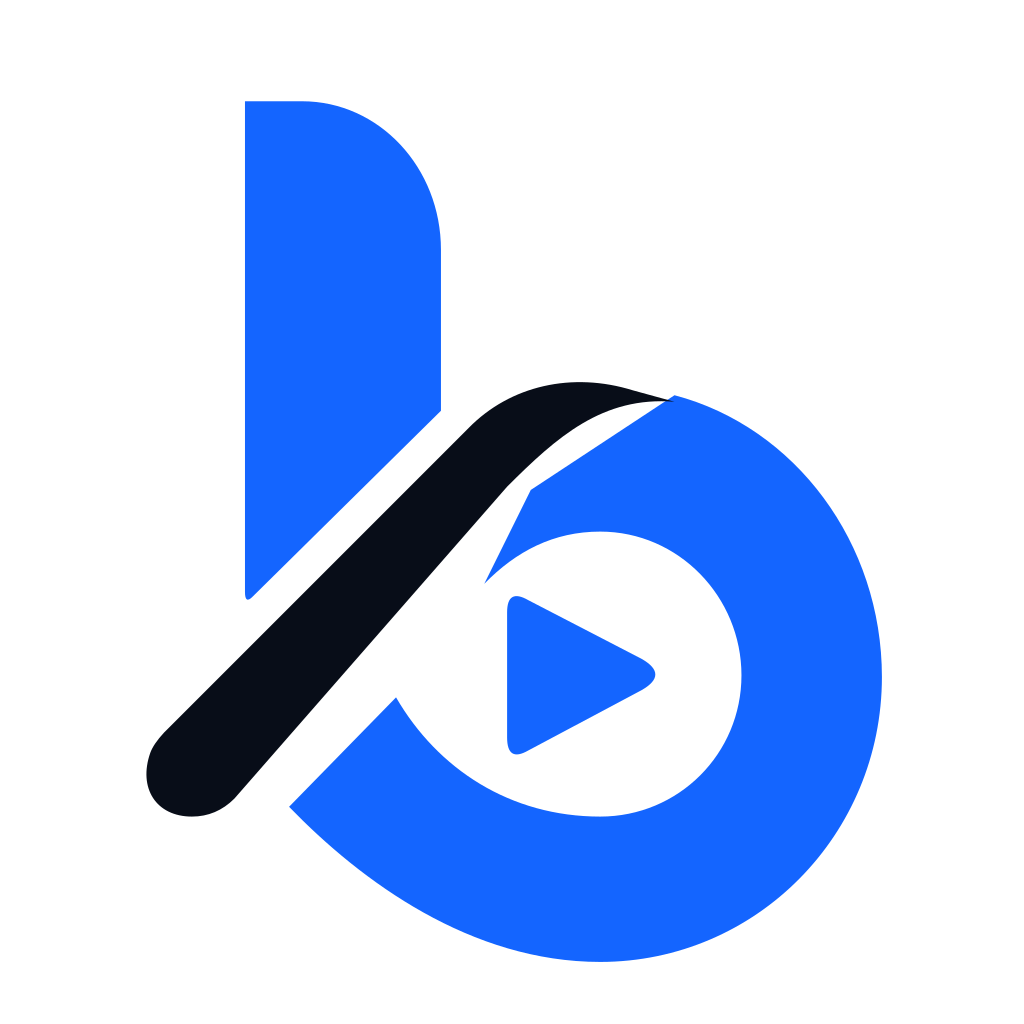
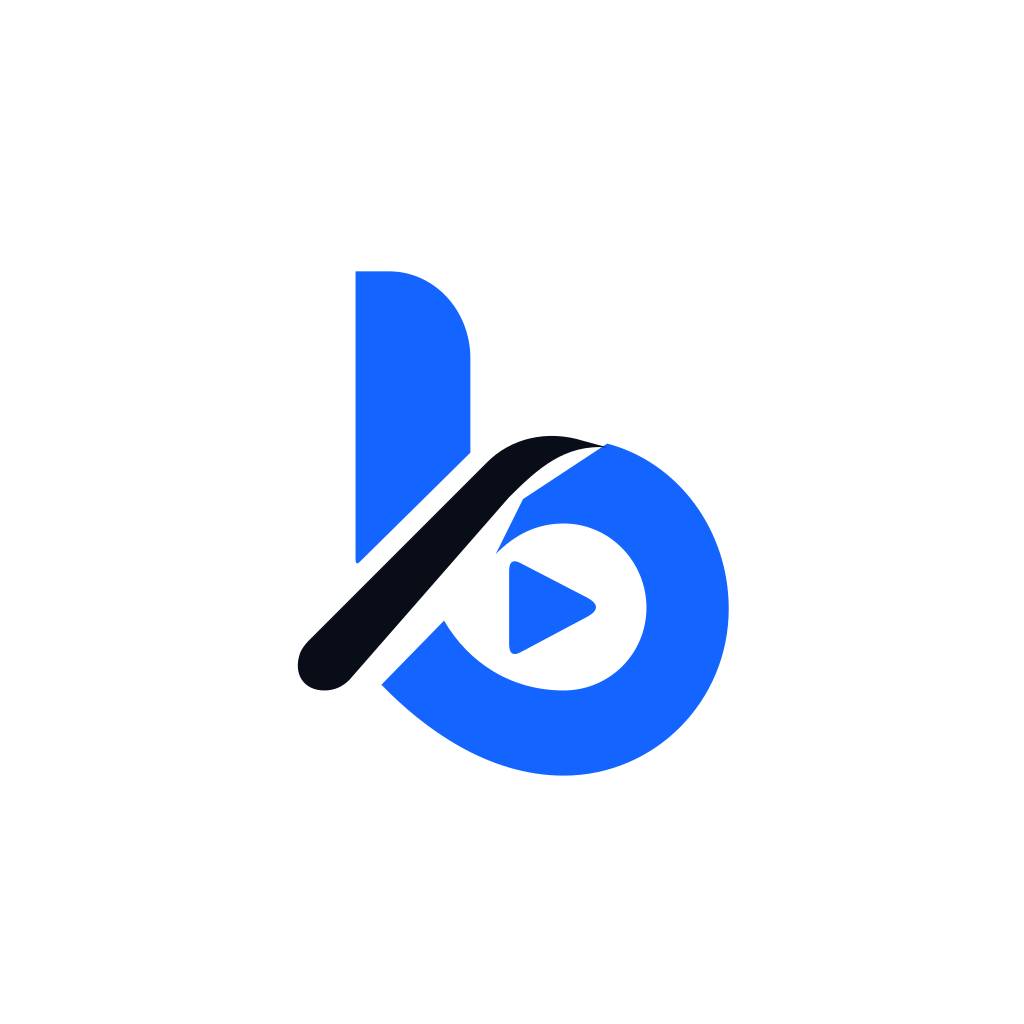
fix: keep approved adaptive mark inside Android launcher safe zone

Changed region(s): [[0.125, 0.0938, 0.875, 0.9375]]

diff --git a/docs/releases/v0.2.20-preview.25.md b/docs/releases/v0.2.20-preview.25.md
@@ -1,0 +1,32 @@
+# BailaCue 0.2.20 · Android preview build25
+
+Implements the approved round-2 requirements. Install over the previous preview to
+keep your device library.
+
+- YouTube playlist discovery explicitly cues the official playlist without starting
+  playback. An invalid Data API key can fall back to the player's visible list.
+- Add selected videos is beside playlist setup. Success appears after the Library
+  write completes, with Open Library, preserved selections on failure, and retry.
+  Partial player-list refreshes retain existing memberships and personal edits.
+- Long YouTube titles use a compact two-line heading with Show full title.
+- YouTube has a resize grip and accessible adjustment, plus a visible Full screen
+  action and Android Back handling. The same player stays mounted, preserving
+  video position, play/pause and supported speed across those layout changes.
+- The approved concept05 lowercase b/play icon replaces BC. Transparent light/dark
+  in-app marks, adaptive foreground, monochrome, splash, logos and platform exports
+  regenerate from a clean SVG master. Platform-required launcher backgrounds remain separate.
+
+Full playlist pagination needs a YouTube Data API v3 key. Without one the official
+player's visible list may be limited; the app discloses this and offers setup/retry.
+YouTube stays online and has no download, upload, native trim or rename actions.
+Existing Drive/Dropbox destinations, original-file safeguards and optional numbering remain.
+
+190 unit/database tests and the round-2 browser journeys are recorded in
+VERIFICATION.md. Native acceptance, the public APK identity, fresh iOS compile and
+any live YouTube result will be recorded after their checks complete. Browser
+YouTube integrations use controlled official-endpoint responses; they are not live
+provider acceptance. No new database deployment, main merge or store submission.
+
+Build23 was withheld before publication to remove the old lock-screen icon tile and keep the full-screen action reachable above the picture in landscape.
+
+The adaptive foreground and monochrome layer include Android safe-zone padding; the transparent artwork and in-app symbol remain unchanged. Build24 was withheld before publication after mask verification found clipping.

diff --git a/docs/CURRENT-HANDOFF.md b/docs/CURRENT-HANDOFF.md
@@ -1,11 +1,11 @@
-# Current handoff · round 2 · 0.2.19/build24 in progress
+# Current handoff · round 2 · 0.2.20/build25 in progress
 
 The owner authorized all five issues in REQUIREMENTS-ROUND-2.md after approving
 the concept05 b/play preview. Source implements playlist cueing without playback,
 durable Add/Open Library and retry, compact YouTube titles, resize/full screen with
 a stable player instance, and clean transparent in-app/platform icon exports.
 App name and UI palette remain unchanged. Native publication is pending; see
-VERIFICATION.md. Build22 remains the previous public preview until build24 passes.
+VERIFICATION.md. Build22 remains the previous public preview until build25 passes.
 
 190 unit/database tests and the browser journeys pass; Doctor20/20 and iOS Hermes
 export pass. No new native dependency or production table is required. The selected
@@ -19,3 +19,5 @@ submit stores, run paid services, use TinyFish or modify unrelated Me+ data. No
 subagents without explicit delegation authorization. Earlier handoffs remain in Git.
 
 Build23/tag v0.2.18-preview.23 was withheld before publication for the final transparent lock-screen mark and landscape full-screen-action placement corrections.
+
+Build24 was withheld before publication after the launcher-mask check found clipping in the adaptive foreground. Build25 pads only the adaptive layers to preserve the complete symbol under Android masks.

diff --git a/docs/REQUIREMENTS-ROUND-2.md b/docs/REQUIREMENTS-ROUND-2.md
@@ -1,6 +1,6 @@
 # BailaCue · new requirements · round 2
 
-Status: the owner authorized all five round-2 issues. Implemented in 0.2.19/build24 source; native acceptance and publication are pending.
+Status: the owner authorized all five round-2 issues. Implemented in 0.2.20/build25 source; native acceptance and publication are pending.
 
 This is a new list of feedback on Android preview 0.2.17/build22. It is separate
 from the earlier 22-issue requirements and uses a new `R2` numbering sequence.
@@ -163,3 +163,5 @@ actual Android/iOS player checks; record untested platforms explicitly.
 Implementation scope is this round-2 list. Existing libraries, originals, source choices and optional numbering are preserved. See VERIFICATION.md for the current build and the distinction between automated, native and live-provider evidence.
 
 Build23/tag v0.2.18-preview.23 was withheld before publication for the final transparent lock-screen mark and landscape full-screen-action placement corrections.
+
+Build24 was withheld before publication after the launcher-mask check found clipping in the adaptive foreground. Build25 pads only the adaptive layers to preserve the complete symbol under Android masks.

diff --git a/docs/VERIFICATION.md b/docs/VERIFICATION.md
@@ -1,4 +1,4 @@
-# Verification · BailaCue 0.2.19 / build24 · pending native gate
+# Verification · BailaCue 0.2.20 / build25 · pending native gate
 
 Implements R2-01–R2-05 from [round 2](REQUIREMENTS-ROUND-2.md): playlist cue/import,
 durable saves and Open Library, compact titles, resize/full screen with one player,
@@ -23,7 +23,9 @@ simulator compilation runs separately. Live transfers, physical iPhone playback,
 phone-call interruptions and full TalkBack/VoiceOver review remain manual.
 
 The earlier published [build22 verification](VERIFICATION-0.2.17.md) is historical.
-Do not attribute build24 changes to that APK. No new production database deployment,
+Do not attribute build25 changes to that APK. No new production database deployment,
 main merge or store submission is included.
 
 Build23/tag v0.2.18-preview.23 was withheld before publication for the final transparent lock-screen mark and landscape full-screen-action placement corrections.
+
+Build24 was withheld before publication after the launcher-mask check found clipping in the adaptive foreground. Build25 pads only the adaptive layers to preserve the complete symbol under Android masks.

diff --git a/docs/brand/README.md b/docs/brand/README.md
@@ -50,3 +50,5 @@ provenance, not used as the runtime icon or as an SVG raster container.
 Store artwork is prepared in Git; publishing store listings or taking store-specific
 marketing screenshots is a separate distribution step. No app-store submission is
 implied by these exports.
+
+Android adaptive foregrounds use a separate padded placement (600px inside a1024px transparent canvas), preserving the whole symbol inside the central66dp safe zone of the108dp layer. The transparent master/in-app artwork is unchanged. See [Android adaptive icon guidance](https://developer.android.com/develop/ui/views/launch/icon_design_adaptive).

diff --git a/docs/releases/v0.2.19-preview.24.md b/docs/releases/v0.2.19-preview.24.md
@@ -1,3 +1,5 @@
+WITHHELD BEFORE PUBLICATION: adaptive foreground required safe-zone padding. Superseded by build25.
+
 # BailaCue 0.2.19 · Android preview build24
 
 Implements the approved round-2 requirements. Install over the previous preview to
